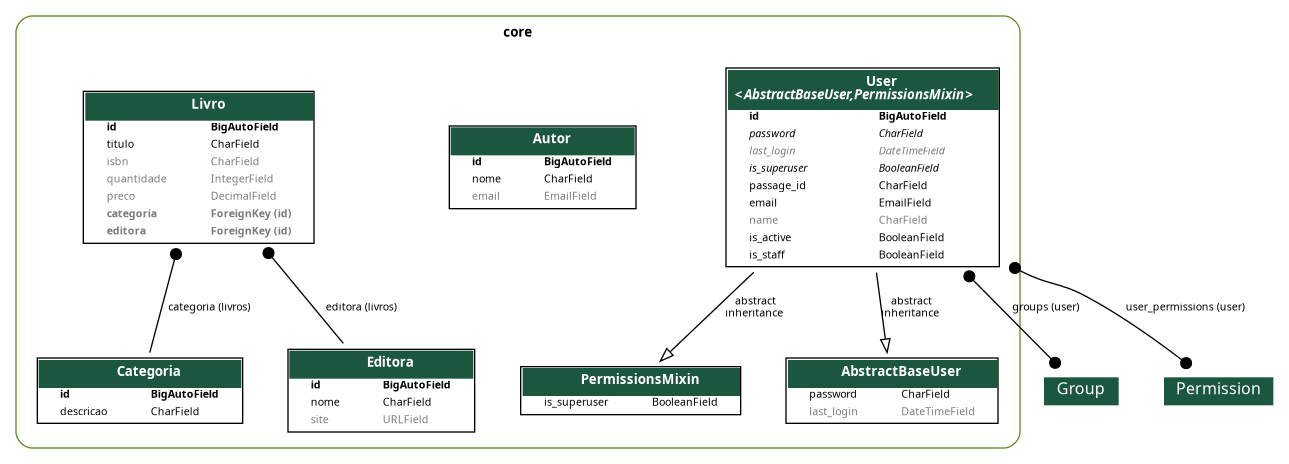
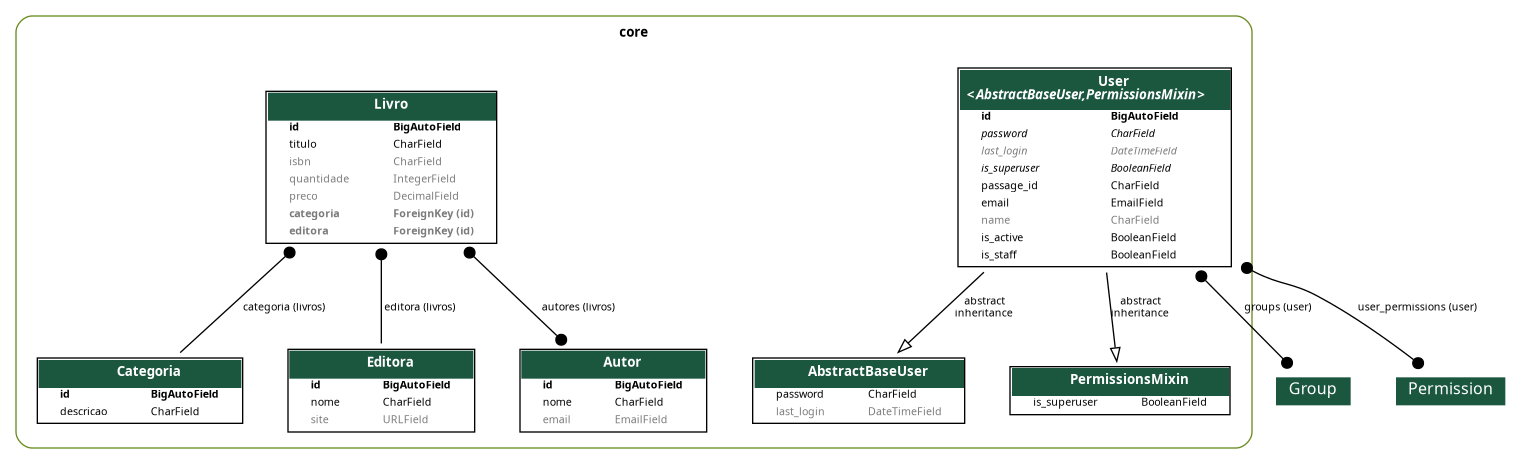
Múltiplos serializadores para Livro

diff --git a/core/views/livro.py b/core/views/livro.py
@@ -1,8 +1,16 @@
 from rest_framework.viewsets import ModelViewSet
 
-from core.models import Categoria, Editora, Autor, Livro
-from core.serializers import CategoriaSerializer, EditoraSerializer, AutorSerializer, LivroSerializer
+from core.models import Livro
+from core.serializers import LivroRetrieveSerializer, LivroSerializer, LivroListSerializer
+
 
 class LivroViewSet(ModelViewSet):
     queryset = Livro.objects.all()
     serializer_class = LivroSerializer
+
+    def get_serializer_class(self):
+        if self.action == "list":
+            return LivroListSerializer
+        elif self.action == "retrieve":
+            return LivroRetrieveSerializer
+        return LivroSerializer

diff --git a/core/models/livro.py b/core/models/livro.py
@@ -2,6 +2,7 @@
 from django.db import models
 from .categoria import Categoria
 from .editora import Editora
+from .autor import Autor
 
 class Livro(models.Model):
     titulo = models.CharField(max_length=255)
@@ -12,7 +13,7 @@ class Livro(models.Model):
         Categoria, on_delete=models.PROTECT, related_name="livros", null=True, blank=True
     )
     editora = models.ForeignKey(Editora, on_delete=models.PROTECT, related_name="livros", null=True, blank=True)
-
+    autores = models.ManyToManyField(Autor, related_name="livros", blank=True)
 
     def __str__(self):
         return f"({self.id}) {self.titulo} ({self.quantidade})"

diff --git a/core/migrations/0010_livro_autores.py b/core/migrations/0010_livro_autores.py
@@ -1,0 +1,18 @@
+# Generated by Django 5.1.4 on 2024-12-10 23:56
+
+from django.db import migrations, models
+
+
+class Migration(migrations.Migration):
+
+    dependencies = [
+        ('core', '0009_livro_categoria_livro_editora'),
+    ]
+
+    operations = [
+        migrations.AddField(
+            model_name='livro',
+            name='autores',
+            field=models.ManyToManyField(blank=True, related_name='livros', to='core.autor'),
+        ),
+    ]

diff --git a/core/serializers/livro.py b/core/serializers/livro.py
@@ -6,3 +6,14 @@ class LivroSerializer(ModelSerializer):
     class Meta:
         model = Livro
         fields = "__all__"
+
+class LivroListSerializer(ModelSerializer):
+    class Meta:
+        model = Livro
+        fields = ("id", "titulo", "preco")
+
+class LivroRetrieveSerializer(ModelSerializer):
+    class Meta:
+        model = Livro
+        fields = "__all__"
+        depth = 1

diff --git a/core/serializers/__init__.py b/core/serializers/__init__.py
@@ -2,4 +2,4 @@ from .user import UserSerializer
 from .autor import AutorSerializer
 from .categoria import CategoriaSerializer
 from .editora import EditoraSerializer
-from .livro import LivroSerializer
+from .livro import LivroListSerializer, LivroRetrieveSerializer, LivroSerializer
